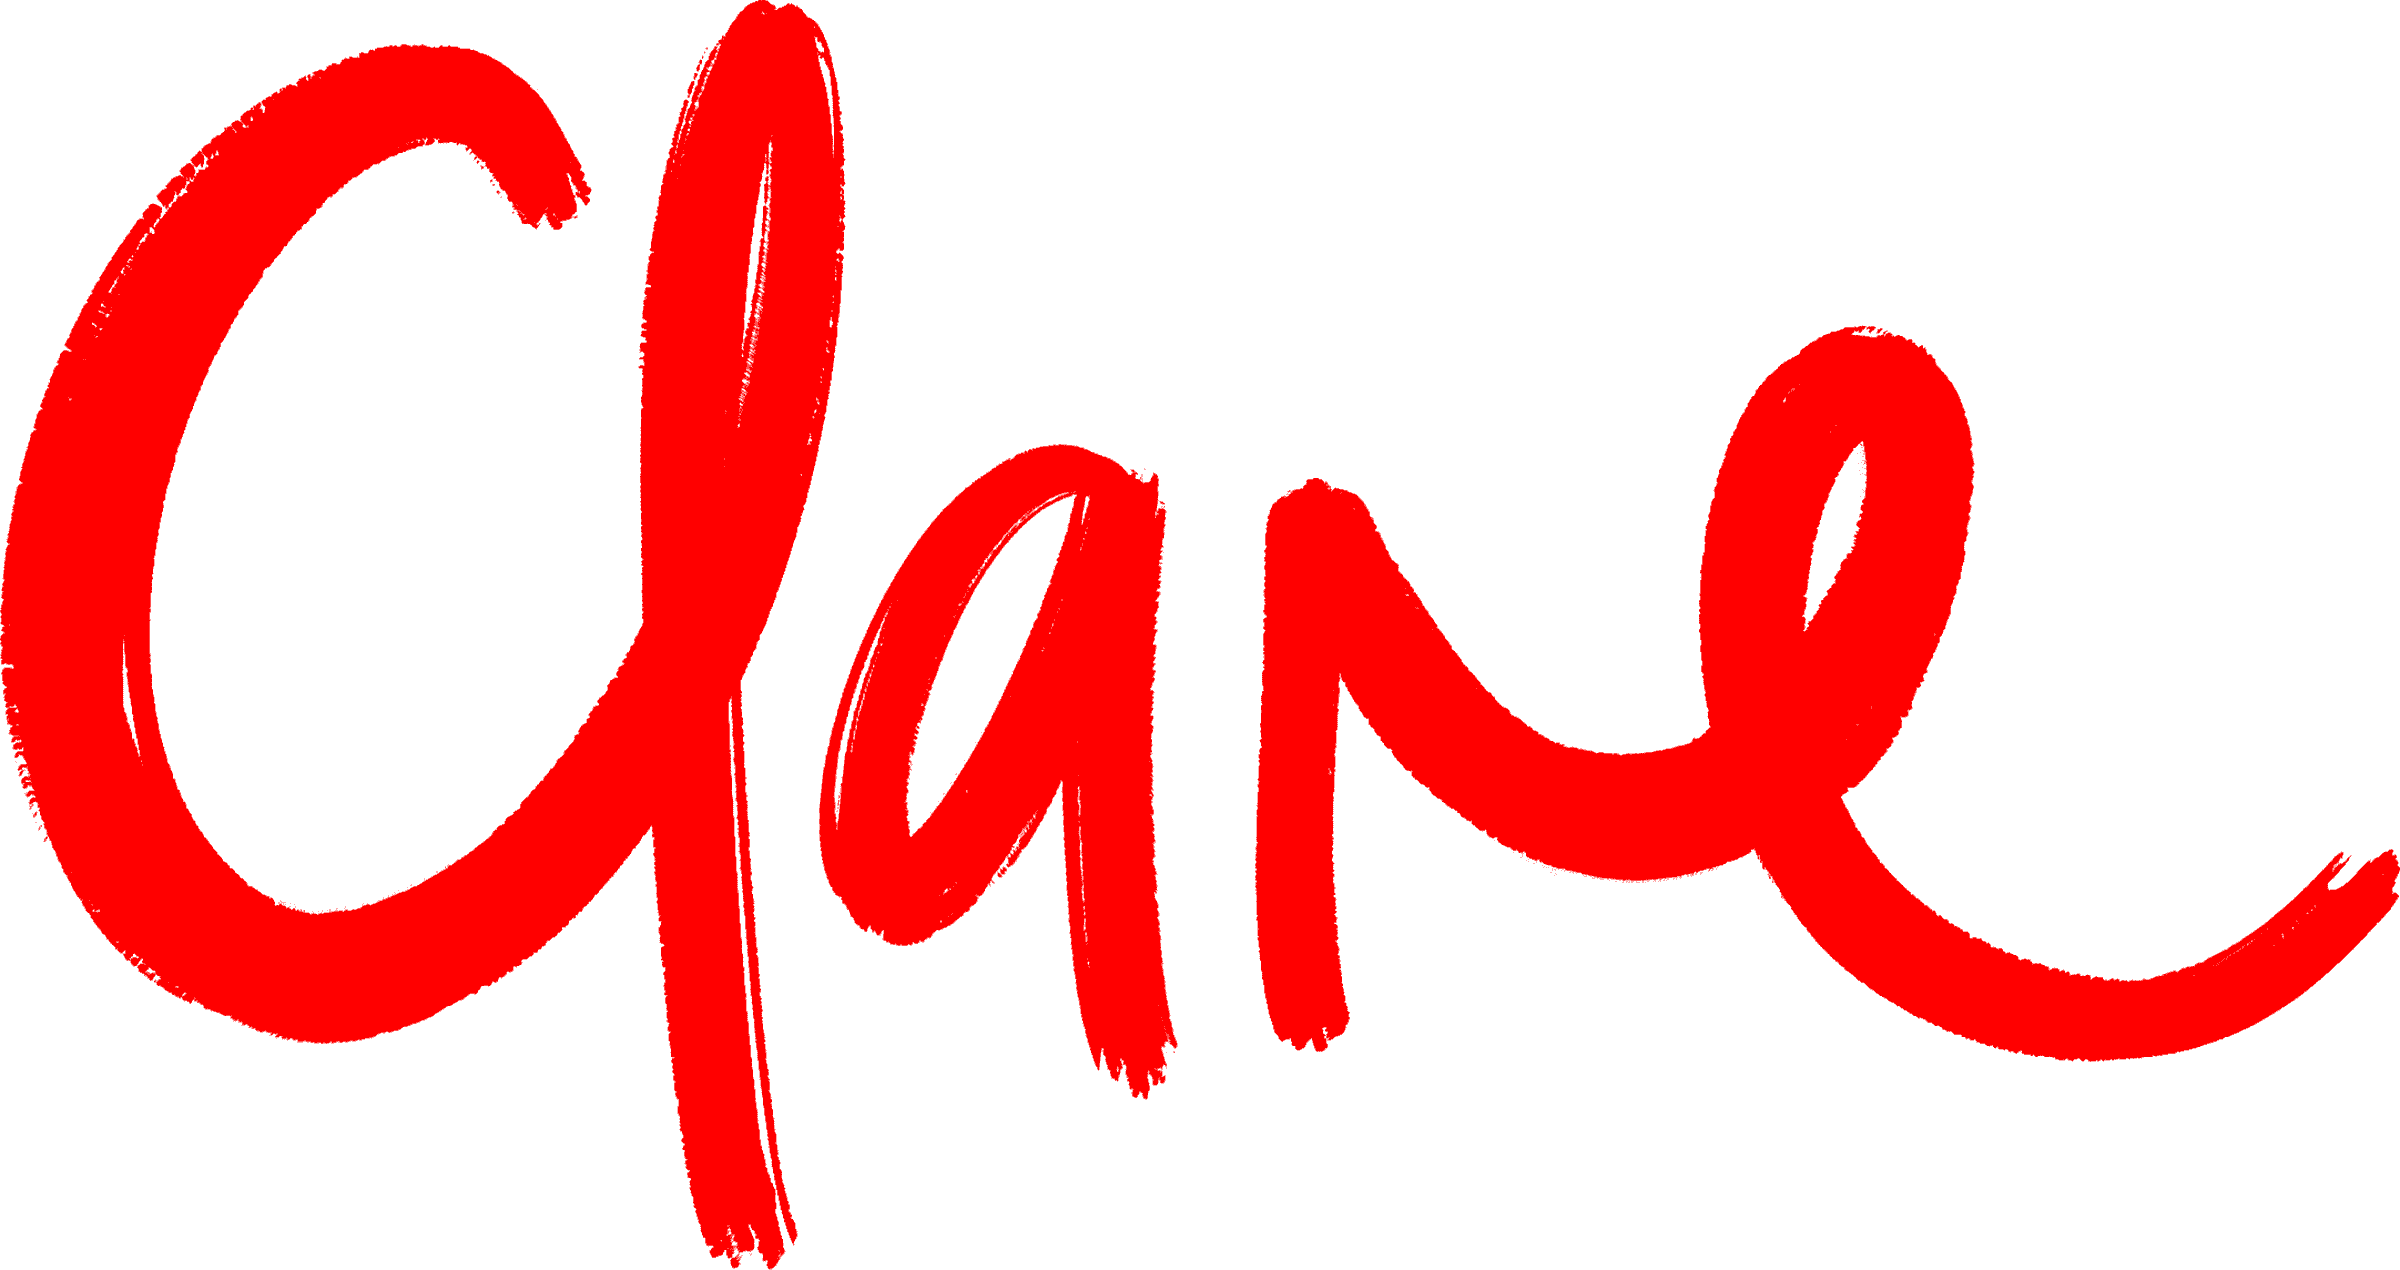
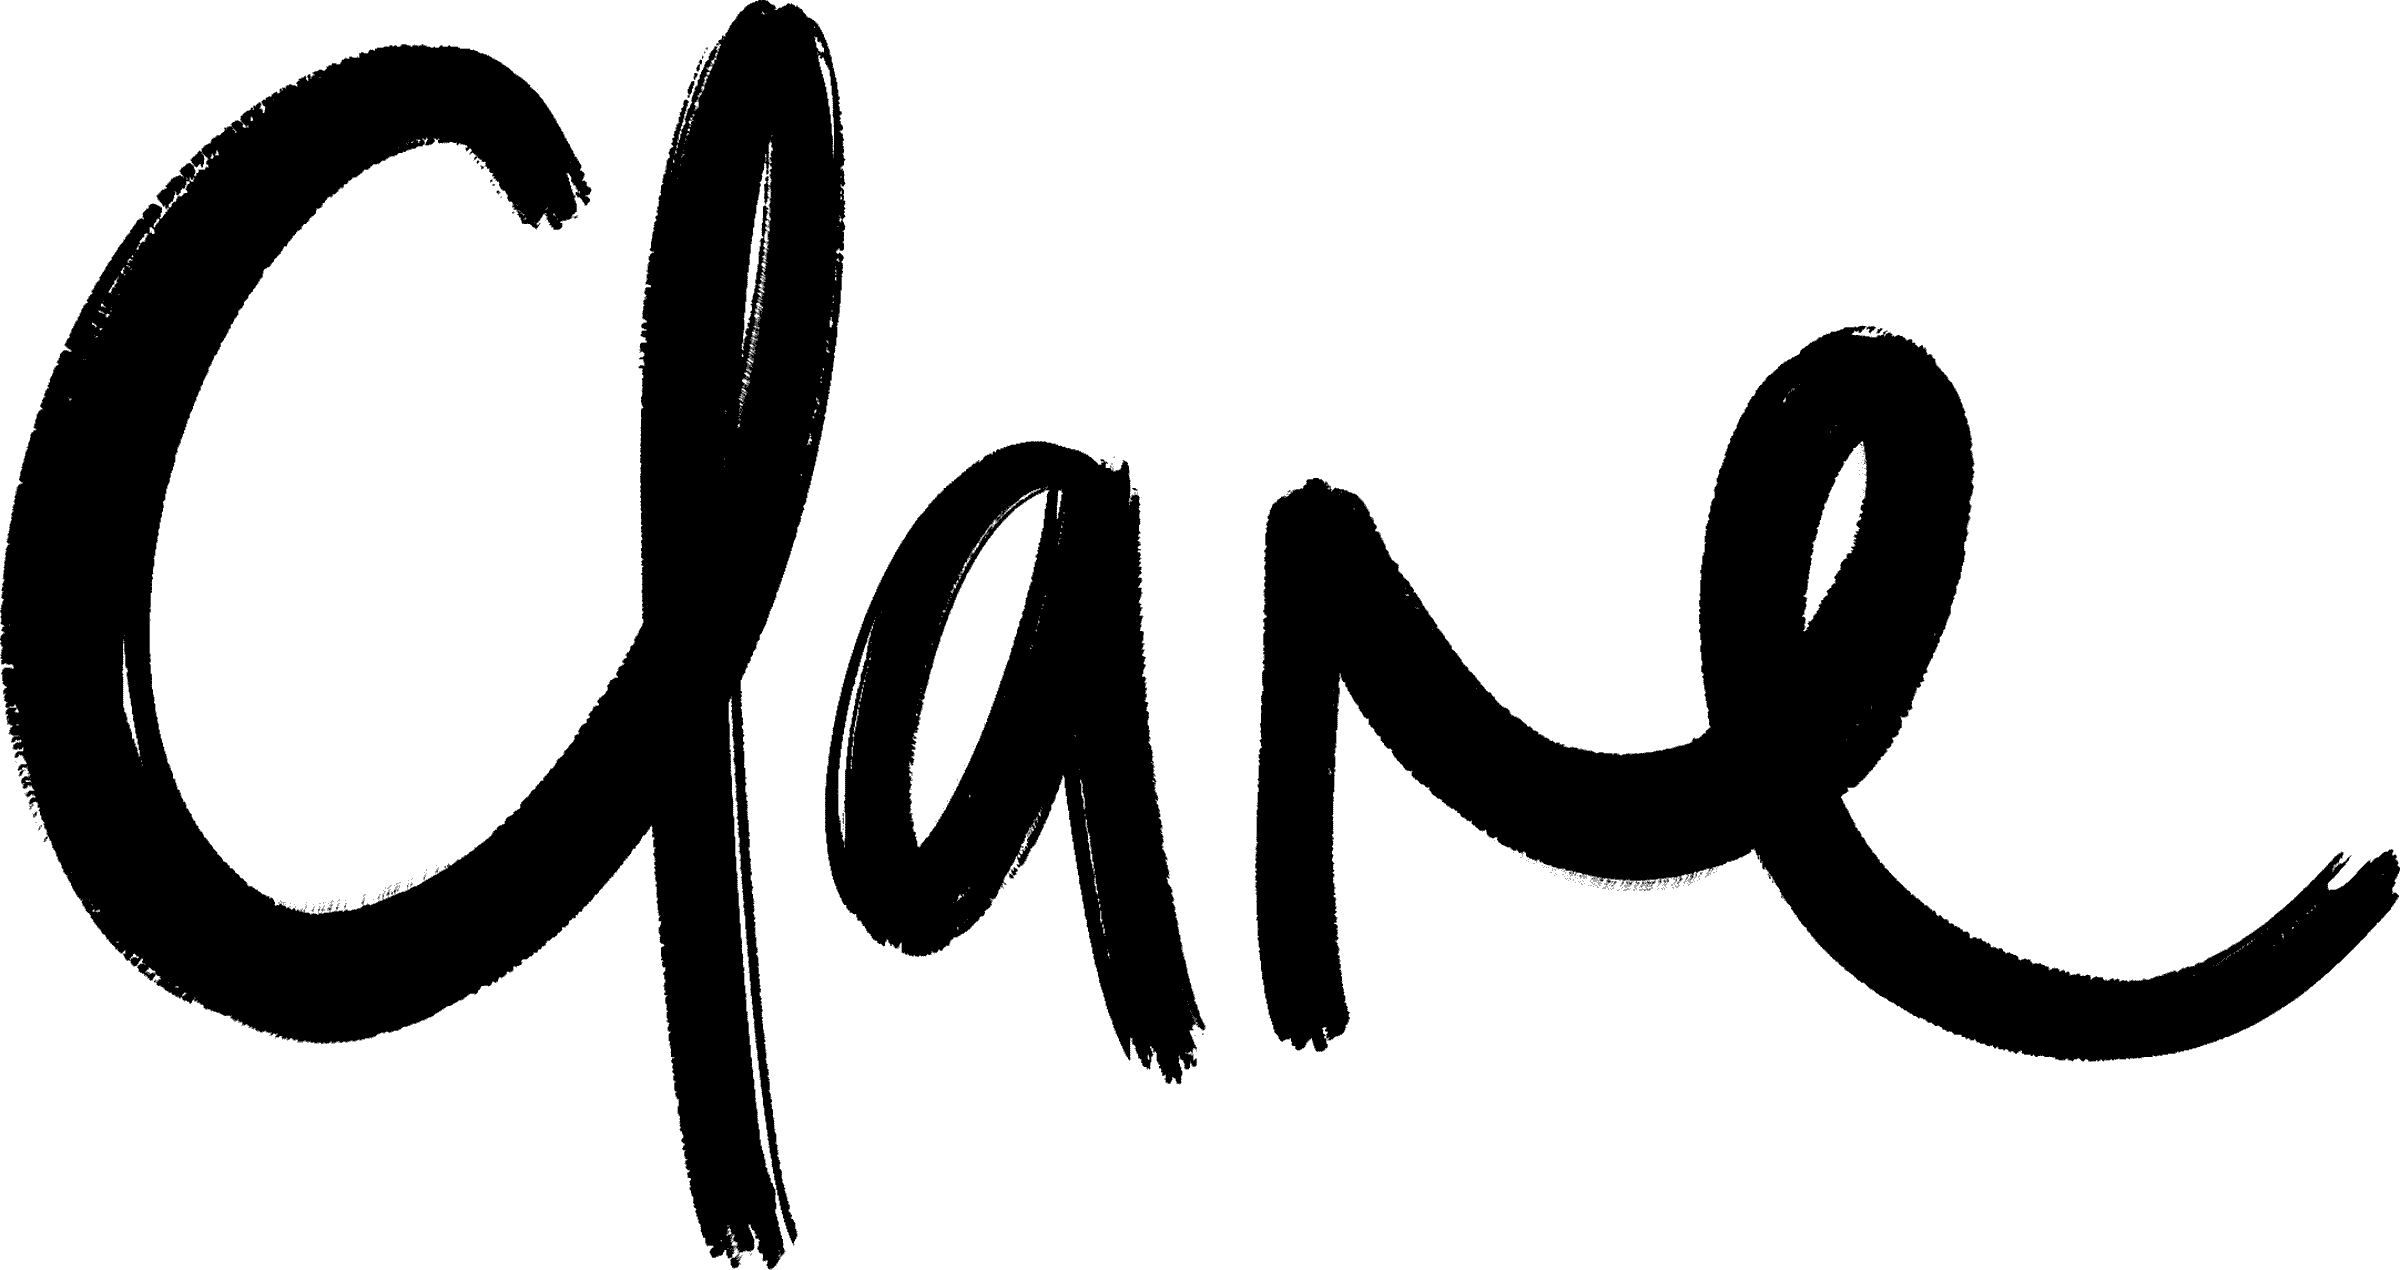
Use more accurate conversion for filter colour

Changed region(s): [[0.0, 0.0, 1.0, 1.0]]

diff --git a/src/scripts/themes.js b/src/scripts/themes.js
@@ -2,9 +2,12 @@ const themes = [
   {
     hero: {
       color: "#0b506c",
-      hue: "197deg",
-      saturation: "82%",
-      brightness: "46%"
+      invert: "25%",
+      sepia: "26%",
+      saturation: "1606%",
+      hue: "154deg",
+      brightness: "96%",
+      contrast: "95%"
     },
     background: {
       color: "#f7c69f"
@@ -16,9 +19,12 @@ const themes = [
   {
     hero: {
       color: "#f15f57",
-      hue: "3deg",
-      saturation: "85%",
-      brightness: "128%"
+      invert: "53%",
+      sepia: "10%",
+      saturation: "3367%",
+      hue: "314deg",
+      brightness: "94%",
+      contrast: "100%"
     },
     background: {
       color: "#eff0d1"
@@ -30,9 +36,12 @@ const themes = [
   {
     hero: {
       color: "#020202",
-      hue: "0deg",
-      saturation: "0%",
-      brightness: "2%"
+      invert: "0%",
+      sepia: "0%",
+      saturation: "7477%",
+      hue: "267deg",
+      brightness: "107%",
+      contrast: "98%"
     },
     background: {
       color: "#f0f821"
@@ -44,9 +53,12 @@ const themes = [
   {
     hero: {
       color: "#efbbd3",
-      hue: "332deg",
-      saturation: "62%",
-      brightness: "168%"
+      invert: "84%",
+      sepia: "25%",
+      saturation: "526%",
+      hue: "292deg",
+      brightness: "95%",
+      contrast: "97%"
     },
     background: {
       color: "#db4168"
@@ -58,9 +70,12 @@ const themes = [
   {
     hero: {
       color: "#7f9183",
-      hue: "133deg",
-      saturation: "8%",
-      brightness: "106%"
+      invert: "61%",
+      sepia: "20%",
+      saturation: "218%",
+      hue: "81deg",
+      brightness: "87%",
+      contrast: "84%"
     },
     background: {
       color: "#ddd5d0"
@@ -72,9 +87,12 @@ const themes = [
   {
     hero: {
       color: "#e1d78a",
-      hue: "53deg",
-      saturation: "59%",
-      brightness: "142%"
+      invert: "93%",
+      sepia: "36%",
+      saturation: "544%",
+      hue: "340deg",
+      brightness: "96%",
+      contrast: "84%"
     },
     background: {
       color: "#8e453e"
@@ -86,9 +104,12 @@ const themes = [
   {
     hero: {
       color: "#dc94c0",
-      hue: "323deg",
-      saturation: "51%",
-      brightness: "144%"
+      invert: "92%",
+      sepia: "10%",
+      saturation: "2981%",
+      hue: "281deg",
+      brightness: "91%",
+      contrast: "88%"
     },
     background: {
       color: "#e9d3d0"
@@ -100,9 +121,12 @@ const themes = [
   {
     hero: {
       color: "#292f36",
-      hue: "212deg",
-      saturation: "14%",
-      brightness: "38%"
+      invert: "14%",
+      sepia: "17%",
+      saturation: "561%",
+      hue: "172deg",
+      brightness: "102%",
+      contrast: "89%"
     },
     background: {
       color: "#f26b6c"
@@ -114,9 +138,12 @@ const themes = [
   {
     hero: {
       color: "#86625c",
-      hue: "9deg",
-      saturation: "19%",
-      brightness: "88%"
+      invert: "39%",
+      sepia: "16%",
+      saturation: "775%",
+      hue: "321deg",
+      brightness: "98%",
+      contrast: "84%"
     },
     background: {
       color: "#ffeddf"
@@ -128,9 +155,12 @@ const themes = [
   {
     hero: {
       color: "#f8afb3",
-      hue: "357deg",
-      saturation: "84%",
-      brightness: "166%"
+      invert: "75%",
+      sepia: "18%",
+      saturation: "750%",
+      hue: "308deg",
+      brightness: "101%",
+      contrast: "94%"
     },
     background: {
       color: "#435e94"
@@ -142,9 +172,12 @@ const themes = [
   {
     hero: {
       color: "#81a2a0",
-      hue: "176deg",
-      saturation: "15%",
-      brightness: "57%"
+      invert: "65%",
+      sepia: "8%",
+      saturation: "830%",
+      hue: "127deg",
+      brightness: "96%",
+      contrast: "80%"
     },
     background: {
       color: "#f0f3c4"

diff --git a/src/styles/theme.scss b/src/styles/theme.scss
@@ -1,8 +1,11 @@
 :root {
   --hero-color: #0b506c;
-  --hero-hue: 197deg;
+  --hero-invert: 0%;
+  --hero-sepia: 0%;
   --hero-saturate: 82%;
+  --hero-hue: 197deg;
   --hero-brightness: 46%;
+  --hero-contrast: 0%;
   --background-color: #f7c69f;
   --title-color: #98cec6;
 }
@@ -26,9 +29,12 @@ nav {
 .fixed header img {
   // The 'unquote' is a hacky workaround for a bug where scss won't compile
   // filter functions correctly.
-  filter: unquote("hue-rotate(var(--hero-hue))")
+  filter: unquote("invert(var(--hero-invert))")
+    unquote("sepia(var(--hero-sepia))")
     unquote("saturate(var(--hero-saturate))")
-    unquote("brightness(var(--hero-brightness))");
+    unquote("hue-rotate(var(--hero-hue))")
+    unquote("brightness(var(--hero-brightness))")
+    unquote("contrast(var(--hero-contrast))");
 }
 
 .scrolling {

diff --git a/src/scripts/theme-switcher.js b/src/scripts/theme-switcher.js
@@ -10,9 +10,12 @@ export default () => {
     const theme = freshThemes[newTheme];
 
     root.style.setProperty("--hero-color", theme.hero.color);
-    root.style.setProperty("--hero-hue", theme.hero.hue);
+    root.style.setProperty("--hero-invert", theme.hero.invert);
+    root.style.setProperty("--hero-sepia", theme.hero.sepia);
     root.style.setProperty("--hero-saturate", theme.hero.saturation);
+    root.style.setProperty("--hero-hue", theme.hero.hue);
     root.style.setProperty("--hero-brightness", theme.hero.brightness);
+    root.style.setProperty("--hero-contrast", theme.hero.contrast);
     root.style.setProperty("--background-color", theme.background.color);
     root.style.setProperty("--title-color", theme.title.color);
 
